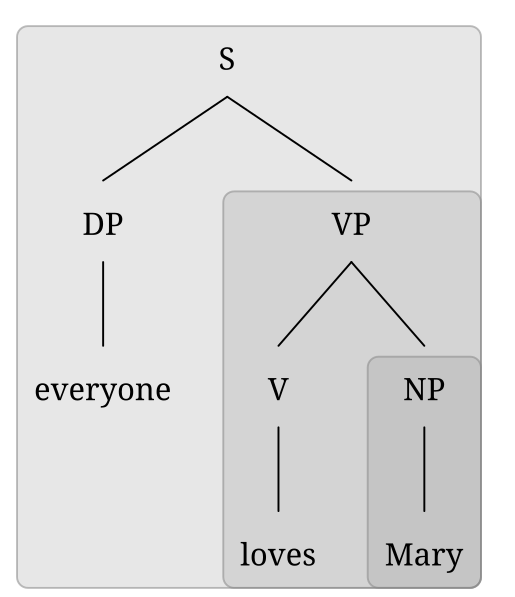
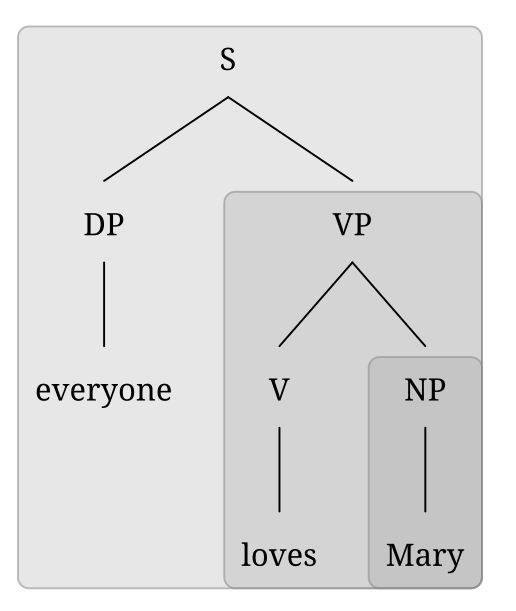
Release v1.6.2: keep a margin around region shades at the image edge
- Grow the canvas with an h_gap margin when a region's padded bounds extend
  past the tree's natural extent (e.g. a deep enclosed/multi-line node), so the
  shaded plane no longer touches the image edge.
- Add a regression test (verified to fail at 1px margin without the fix).
- Regenerate 064/065 assets.

diff --git a/test/node_styling_test.rb b/test/node_styling_test.rb
@@ -322,6 +322,27 @@ class NodeStylingTest < Minitest::Test
     assert rx + rw <= minx + vbw + eps, "region right clipped beyond viewBox"
   end
 
+  def test_region_keeps_margin_from_canvas_edge
+    # Regression: when a region's padded bounds extend past the tree's natural
+    # extent (here an enclosed multi-line node deep in the shaded subtree), the
+    # canvas must grow with a margin so the plane does not touch the image edge.
+    opts = @base_opts.merge(color: "modern", data: "[S [A x] [%B [C #\\+one\\ \\+two]]]")
+    svg = RSyntaxTree::RSGenerator.new(opts).draw_svg
+
+    minx, miny, vbw, vbh = svg[/viewBox="([^"]*)"/, 1].split(",").map(&:to_f)
+    shade = svg[/<rect[^>]*fill-opacity[^>]*>/]
+    refute_nil shade
+    rx = shade[/\bx='([\-0-9.]+)'/, 1].to_f
+    ry = shade[/\by='([\-0-9.]+)'/, 1].to_f
+    rw = shade[/width='([\-0-9.]+)'/, 1].to_f
+    rh = shade[/height='([\-0-9.]+)'/, 1].to_f
+
+    bottom_margin = (miny + vbh) - (ry + rh)
+    right_margin = (minx + vbw) - (rx + rw)
+    assert bottom_margin > 8, "Region must keep a bottom margin from the canvas edge (got #{bottom_margin.round(1)})"
+    assert right_margin > 8, "Region must keep a right margin from the canvas edge (got #{right_margin.round(1)})"
+  end
+
   def test_smart_apostrophe_in_label
     # A straight ASCII apostrophe (U+0027) in a label is rendered as a
     # typographic apostrophe (U+2019) for smarter typography (e.g. X-bar "T'").

diff --git a/lib/rsyntaxtree/svg_graph.rb b/lib/rsyntaxtree/svg_graph.rb
@@ -69,14 +69,17 @@ module RSyntaxTree
       y2 = @height + @global[:height_connector_to_text] / 2
 
       # Grow the canvas so region shades that reach past the tree's own bounds
-      # (e.g. a region on the root node, whose top sits above y=0) are not
-      # clipped. x2/y2 are the viewBox width/height, so right = x1 + x2.
+      # (e.g. a region on the root node, or one whose padded edge extends beyond
+      # the deepest leaf) keep a margin instead of touching the image edge. A
+      # margin is added around the region extents before unioning with the tree
+      # bounds. x2/y2 are the viewBox width/height, so right = x1 + x2.
       if @region_bounds
         rb = @region_bounds
-        left = [x1, rb[:min_x]].min
-        top = [y1, rb[:min_y]].min
-        right = [x1 + x2, rb[:max_x]].max
-        bottom = [y1 + y2, rb[:max_y]].max
+        m = @global[:h_gap_between_nodes]
+        left = [x1, rb[:min_x] - m].min
+        top = [y1, rb[:min_y] - m].min
+        right = [x1 + x2, rb[:max_x] + m].max
+        bottom = [y1 + y2, rb[:max_y] + m].max
         new_x2 = right - left
         new_y2 = bottom - top
         @width += new_x2 - x2

diff --git a/lib/rsyntaxtree/version.rb b/lib/rsyntaxtree/version.rb
@@ -1,5 +1,5 @@
 # frozen_string_literal: true
 
 module RSyntaxTree
-  VERSION = "1.6.1"
+  VERSION = "1.6.2"
 end

diff --git a/CHANGELOG.md b/CHANGELOG.md
@@ -1,5 +1,12 @@
 # Changelog
 
+## [1.6.2] - 2026-06
+
+### Fixed
+- Region shade no longer touches the image edge when its padded bounds reach
+  past the tree's natural extent (e.g. a deep enclosed/multi-line node): the
+  canvas now grows with a margin around the shaded plane.
+
 ## [1.6.1] - 2026-06
 
 ### Improved